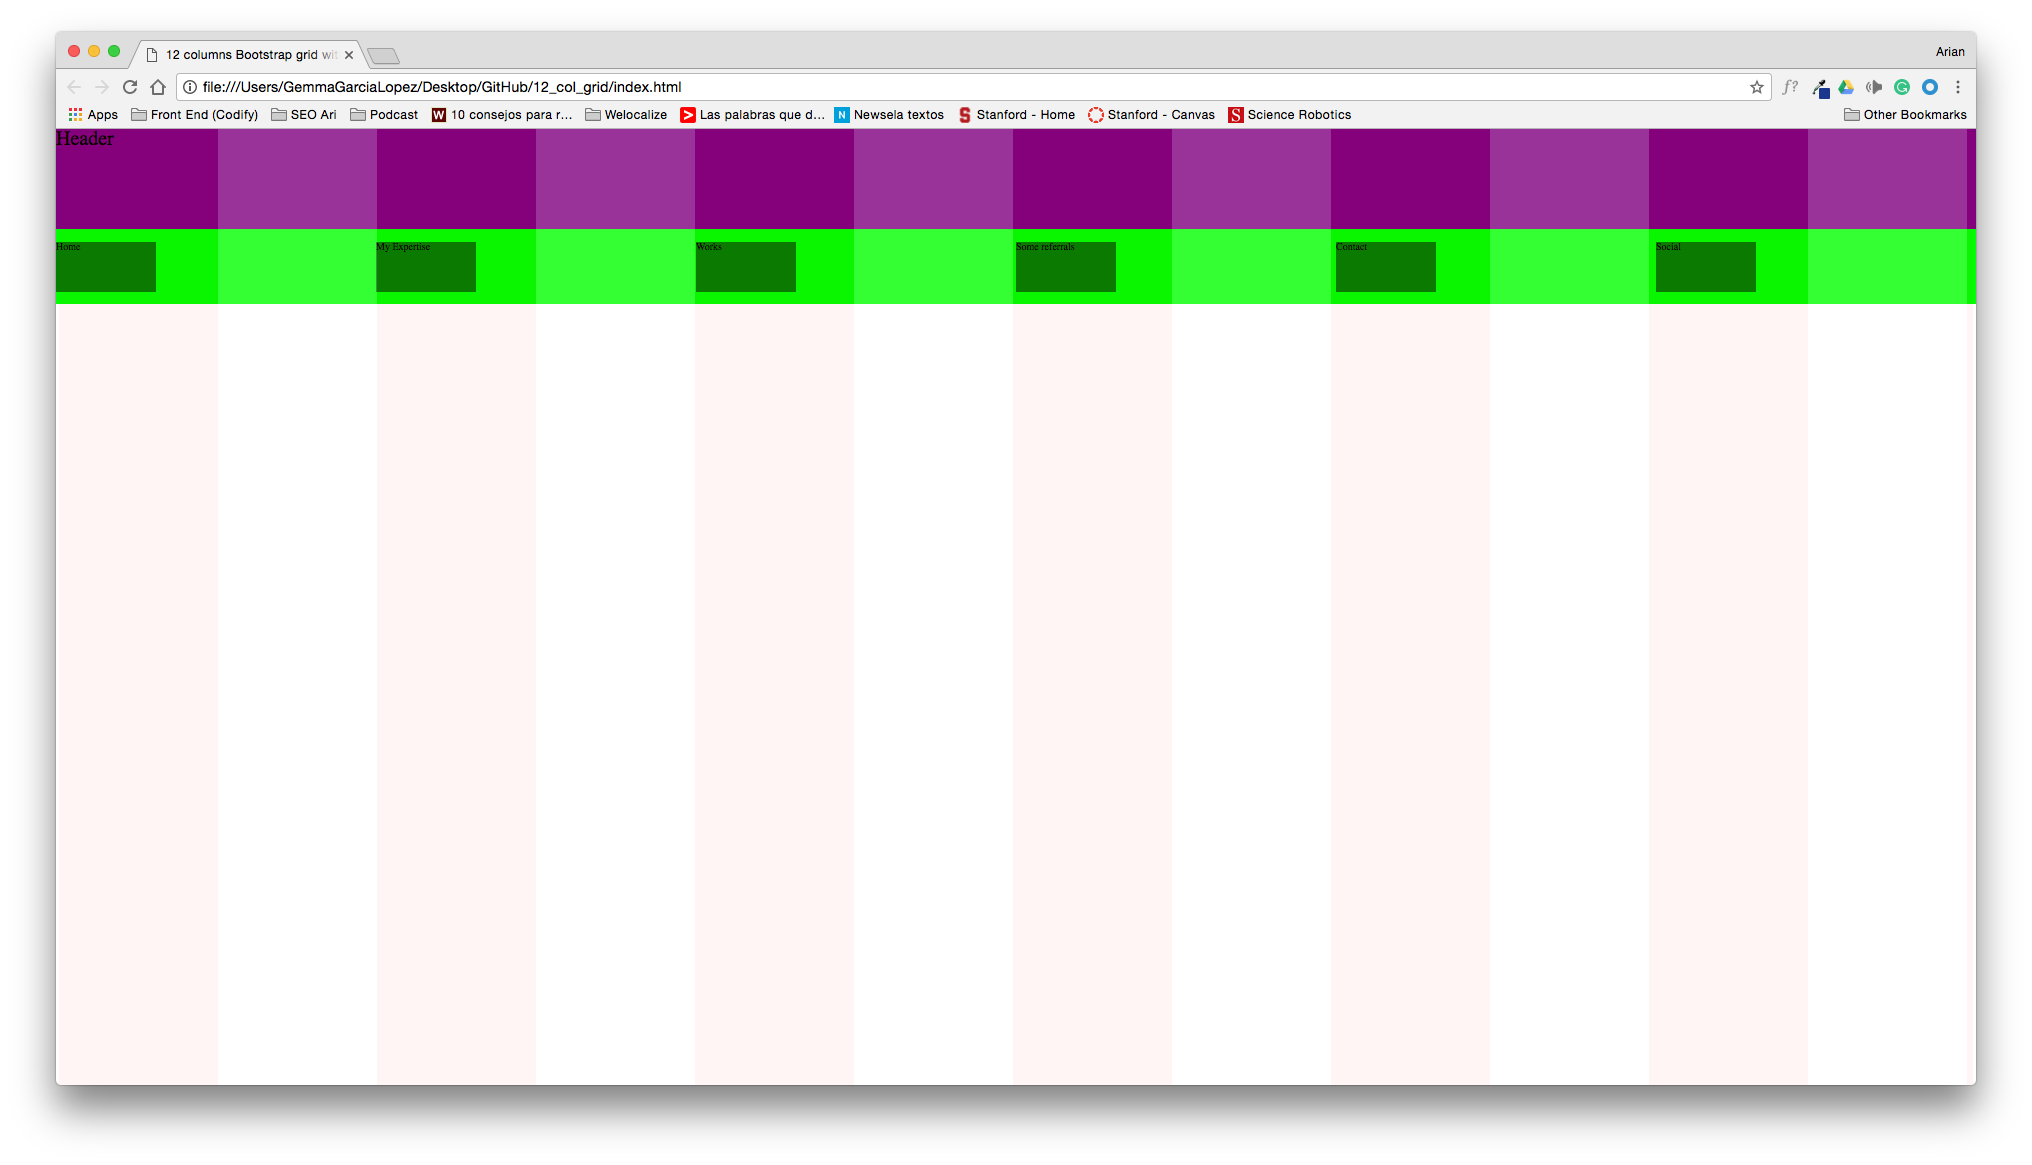
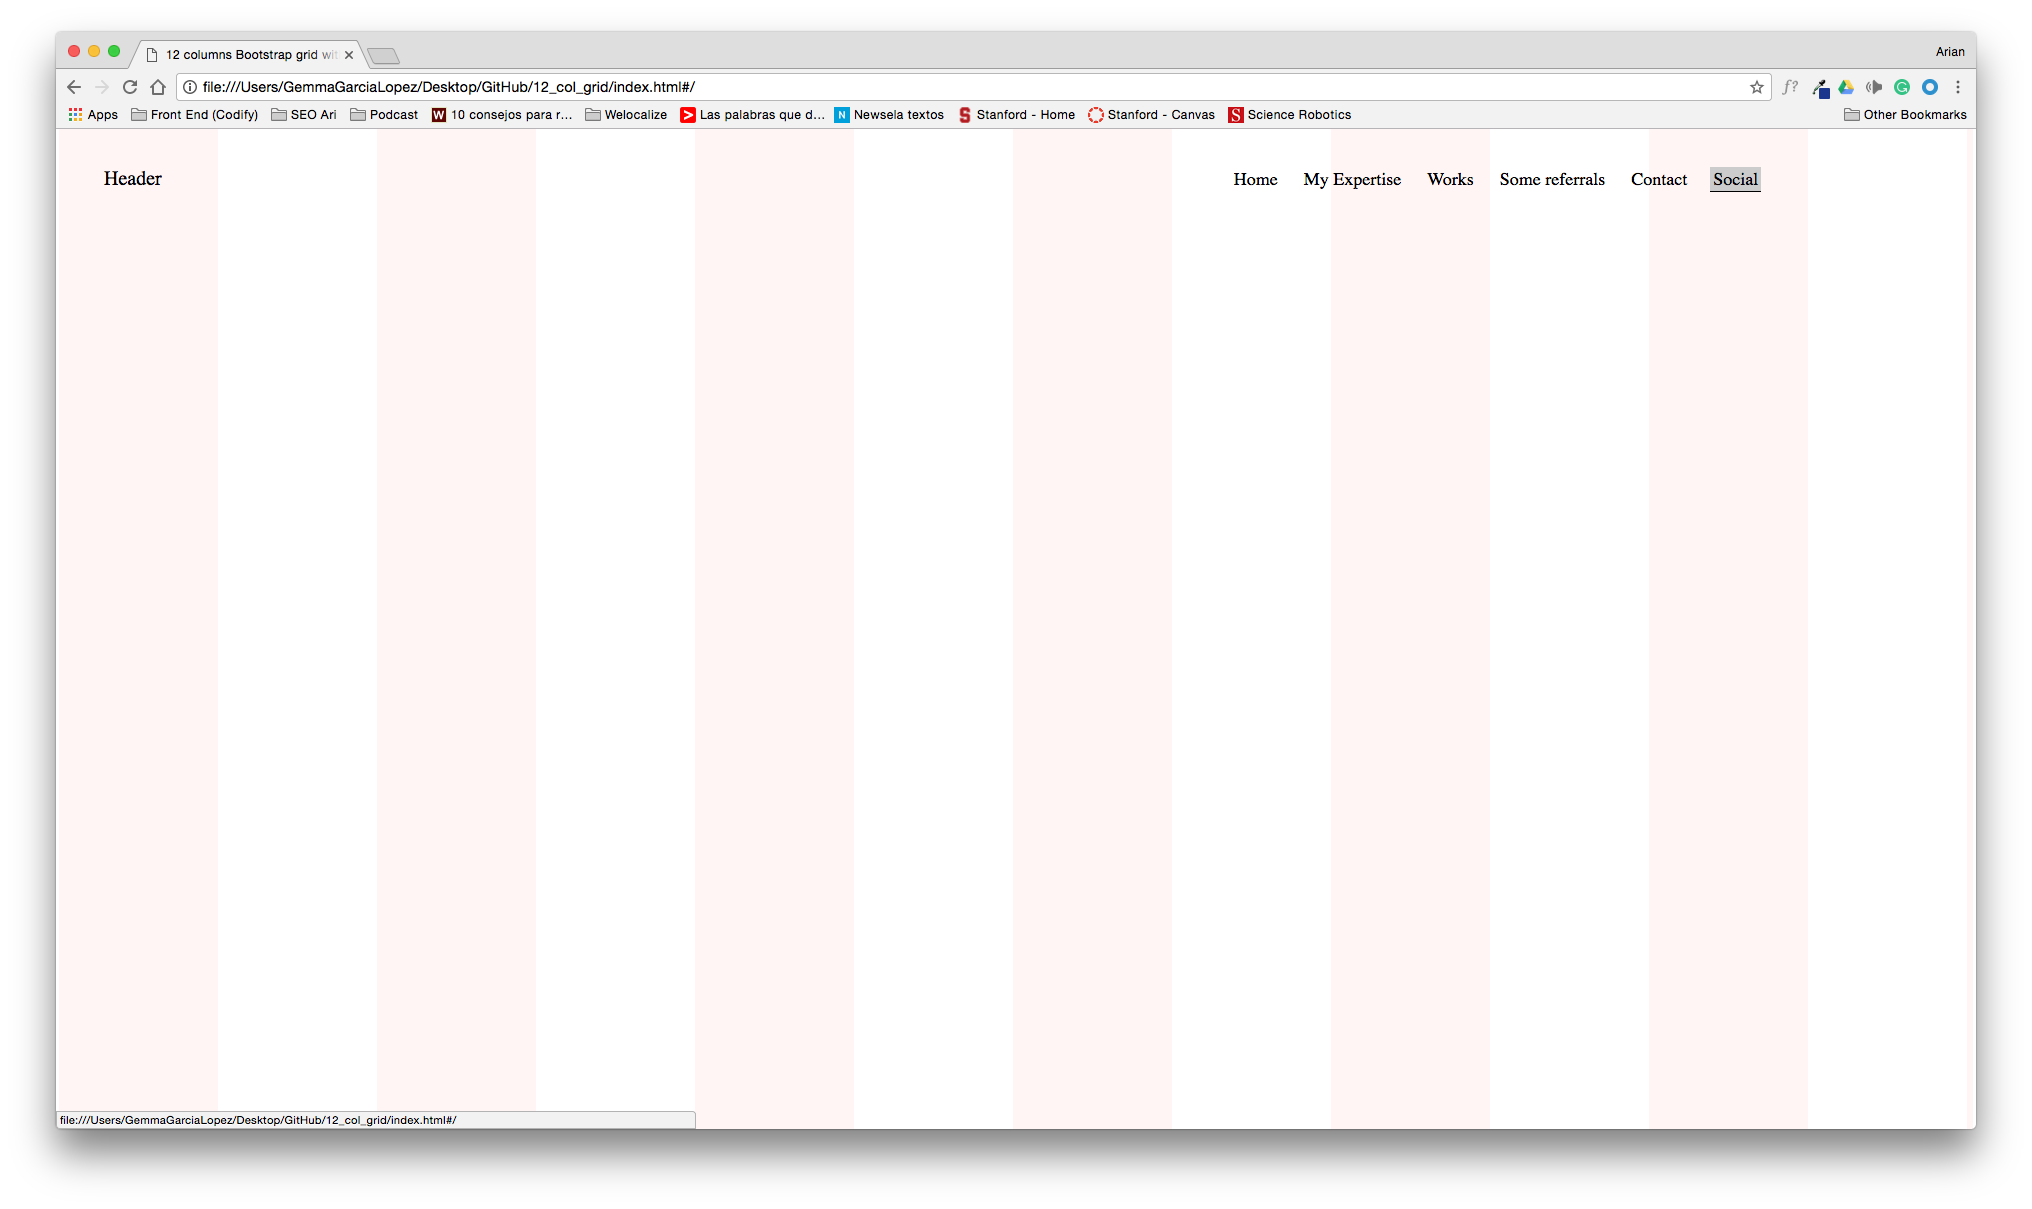
Nav included into the Main Header.

Changed region(s): [[0.0, 0.0309, 0.9921, 0.2781], [0.031, 0.8961, 0.9611, 0.9579]]

diff --git a/index.html b/index.html
@@ -9,7 +9,9 @@
 
     <style>
 
-
+    * {
+      box-sizing: border-box;
+    }
 
     html {
 
@@ -17,40 +19,48 @@
 
     body {
       font-size: 62.5%; /*10px = 1 em*/
-
       display: flex;
       flex-direction: column;
-      justify-content: center;
     }
 
     header {
+      display: flex;
       width: 100%;
-      height: 100px;
-
-background-color: purple;
+      height: 10em;
     }
 
     nav {
-      width: 100%;
-      height: 75px;
-
-background-color: blue;
+      width: 50%;
+      height: 10em;
+      display: flex;
+      justify-content: center;
     }
 
     nav ul {
       display: flex;
-      justify-content: space-between;
-      align-items: center;
-      height: 75px;
-
-  background-color: lime;
+      align-self: center;
     }
 
     nav ul li {
-      width: 100px;
-      height: 50px;
+    display: flex;
+    text-align: center;
+    align-items: center;
+    padding: 10px;
+    }
 
-background-color: green;
+    ul li a {
+      display: flex;
+      text-decoration: none;
+
+      color: black;
+      font-size: 1.8em;
+      padding: 3px;
+      border-bottom: 1px solid transparent;
+    }
+
+    ul li a:hover {
+      border-bottom: 1px solid black;
+      background-color: #ccc;
     }
 
     section {
@@ -71,6 +81,9 @@ background-color: green;
 
     h1 {
       font-size: 2em;
+      width: 50%;
+      line-height: 5em;
+      padding-left: 2.5%;
     }
 
     .grid_view {
@@ -84,28 +97,30 @@ background-color: green;
       background-image: linear-gradient(90deg, transparent 50%, rgb(255,255,255) 50%);
       background-size: 16.6666666667% 100%;
       opacity: .2;
+      z-index: -1;
     }
 
 /*MEDIA QUERIES FOR GRIDS*/
 /*END MEDIA QUERIES FOR GRIDS*/
     </style>
-<div class="grid_view"></div>
 
 </head>
 
 <body>
 
-    <header><h1>Header</h1></header>
-    <nav>
-      <ul>
-        <li>Home</li>
-        <li>My Expertise</li>
-        <li>Works</li>
-        <li>Some referrals</li>
-        <li>Contact</li>
-        <li>Social</li>
-      <ul/>
-    </nav>
+    <header>
+      <h1>Header</h1>
+      <nav>
+        <ul>
+          <li><a href="#/">Home</a></li>
+          <li><a href="#/">My Expertise</a></li>
+          <li><a href="#/">Works</a></li>
+          <li><a href="#/">Some referrals</a></li>
+          <li><a href="#/">Contact</a></li>
+          <li><a href="#/">Social</a></li>
+        <ul/>
+      </nav>
+    </header>
     <section>
     </section>
     <article>
@@ -115,5 +130,6 @@ background-color: green;
     <footer>
     </footer>
 
+<div class="grid_view"></div>
 </body>
 </html>
